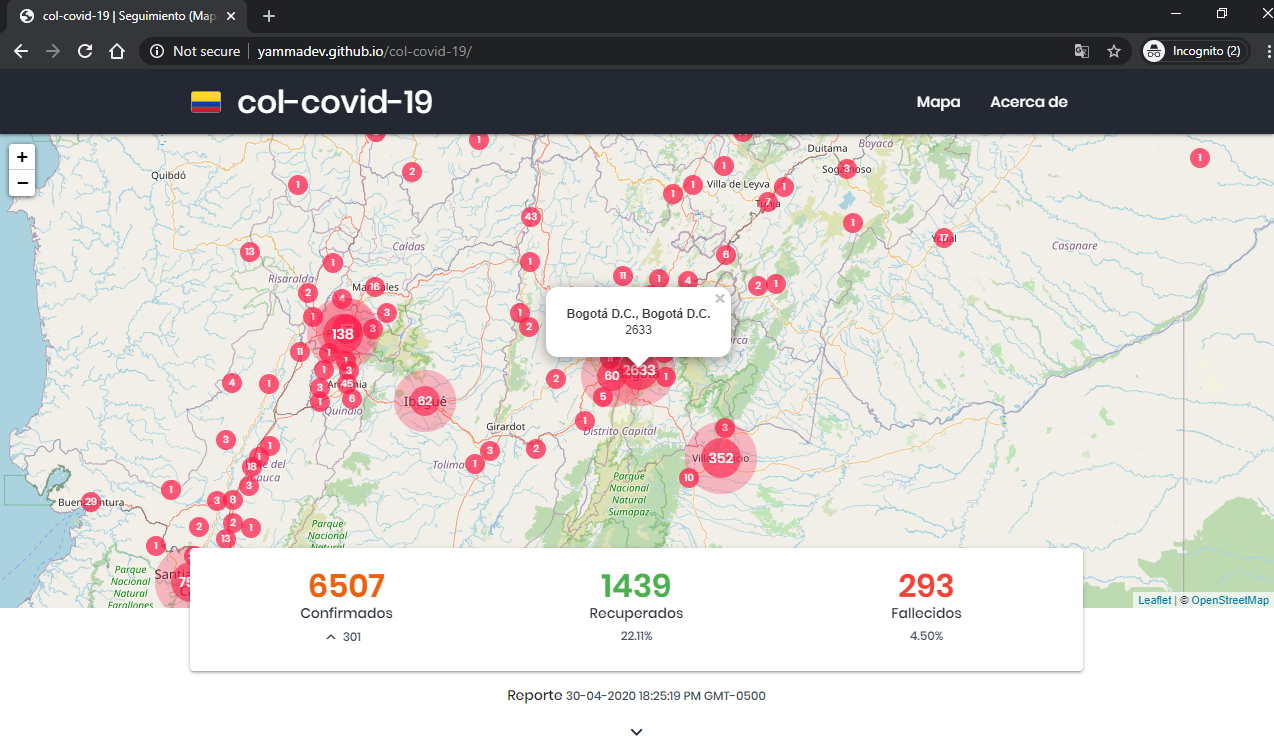
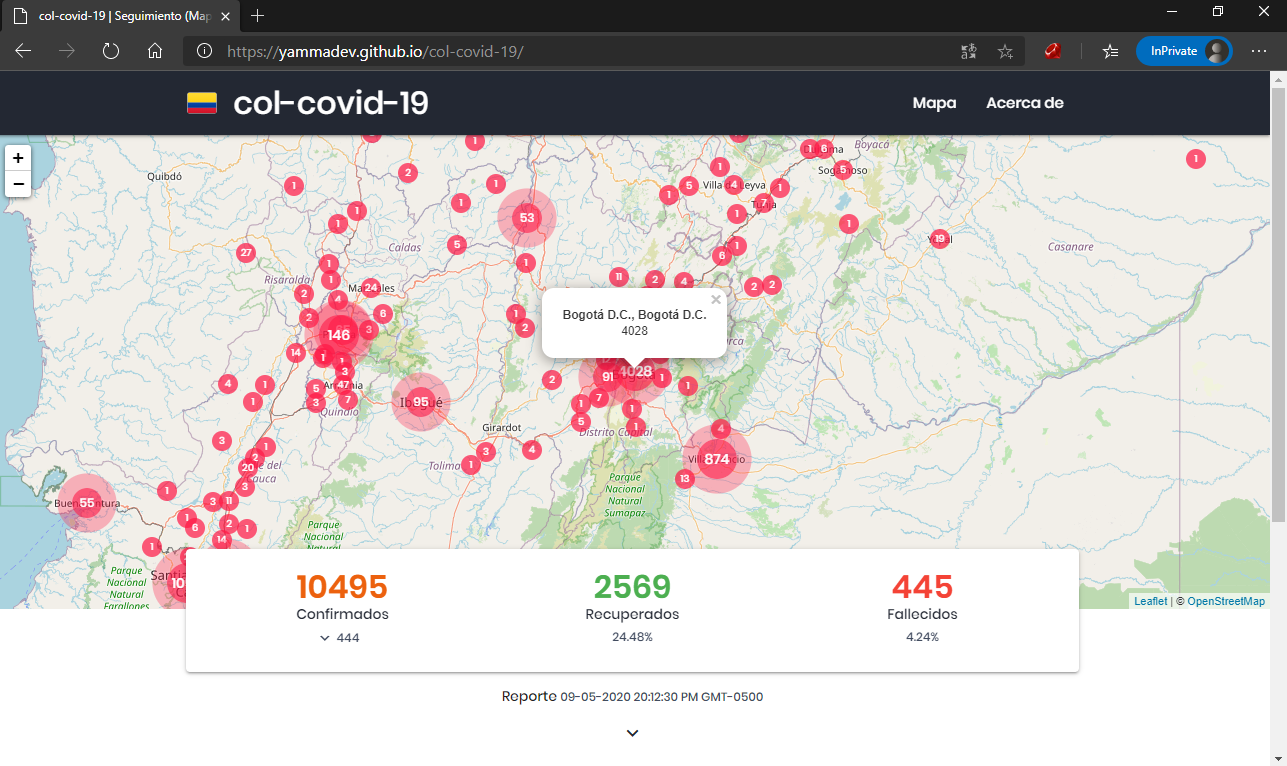
Data updated 09-05-2020 20:58

diff --git a/docs/index.html b/docs/index.html
@@ -97,7 +97,7 @@
             <div class="col s12 report" id="report">
                 <p>Reporte
 
-                    <span>09-05-2020 20:12:30 PM GMT-0500</span>
+                    <span>09-05-2020 20:58:46 PM GMT-0500</span>
 
                 </p>
 
@@ -145,7 +145,7 @@
 
         <p>&copy; Yefferson Marín - <a href="https://github.com/yammadev" target="_blank">yammadev</a></p>
         <p>Licencia AGPL-3.0-only</p>
-        <p>Versión 2.6.0</p>
+        <p>Versión 2.6.1</p>
 
     </div>
 

diff --git a/README.md b/README.md
@@ -112,6 +112,11 @@ Todos los cambios notables a este proyecto están documentados en esta parte del
 - **Corregido** cualquier corrección de errores / **Fixed for** any bug fixes.
 - **Seguridad** en caso de vulnerabilidades / **Security** in case of vulnerabilities.
 
+### [2.6.1] - 2020-05-09
+#### Modificado / Modified
+- Cambios menores / Minor changes.
+- Screenshot.
+
 ### [2.6.0] - 2020-05-01
 #### Modificado / Modified
 - Cambios menores / Minor changes.
